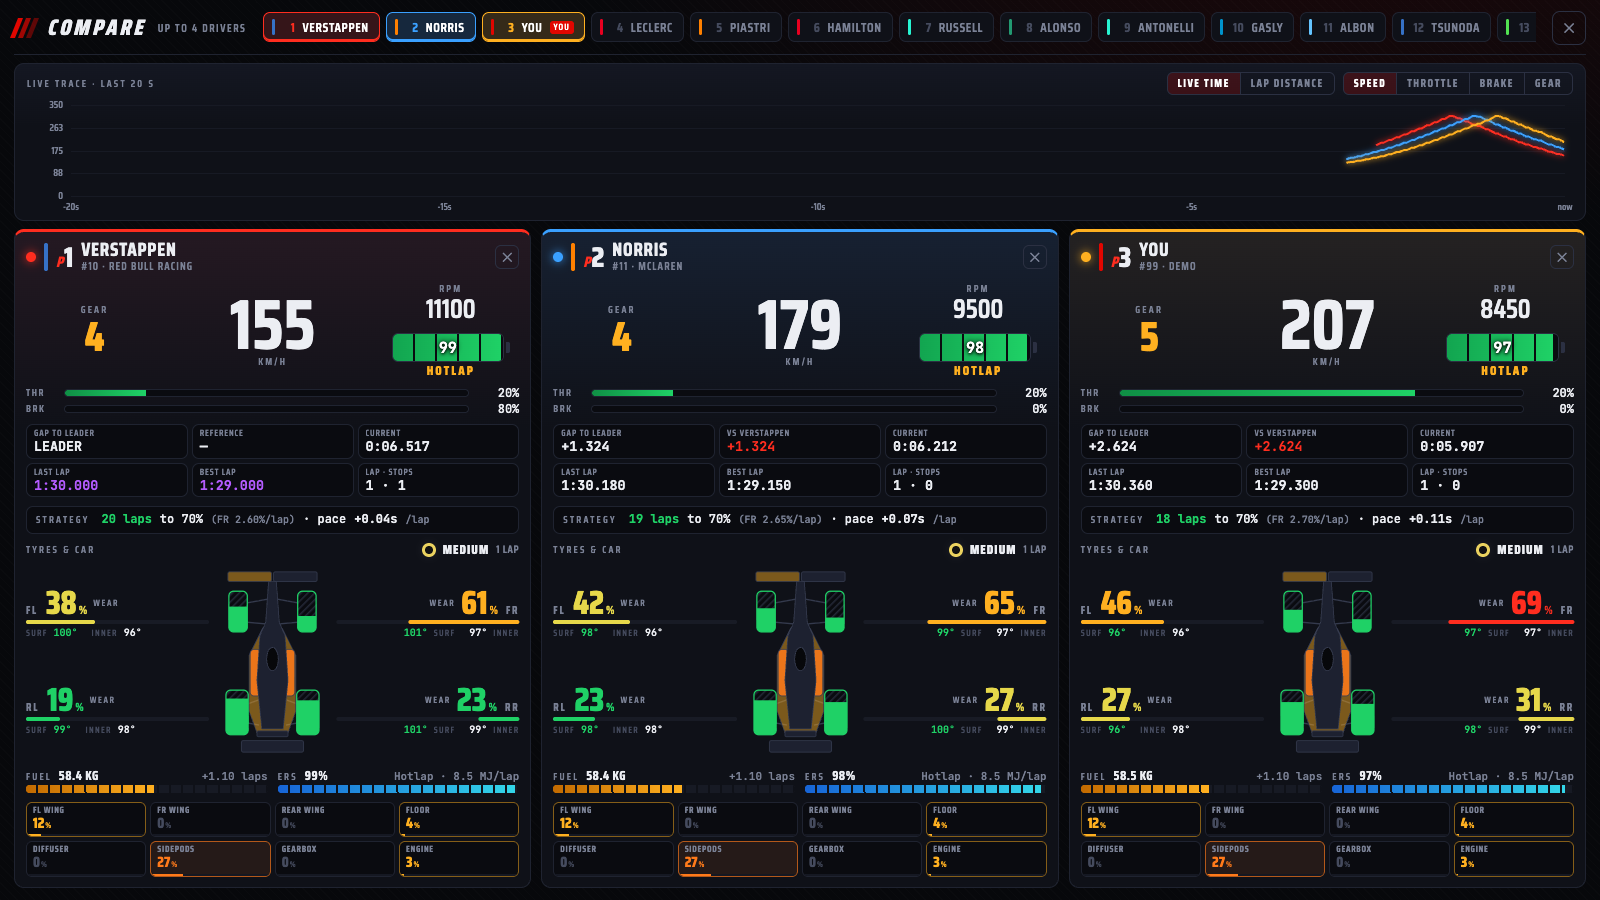
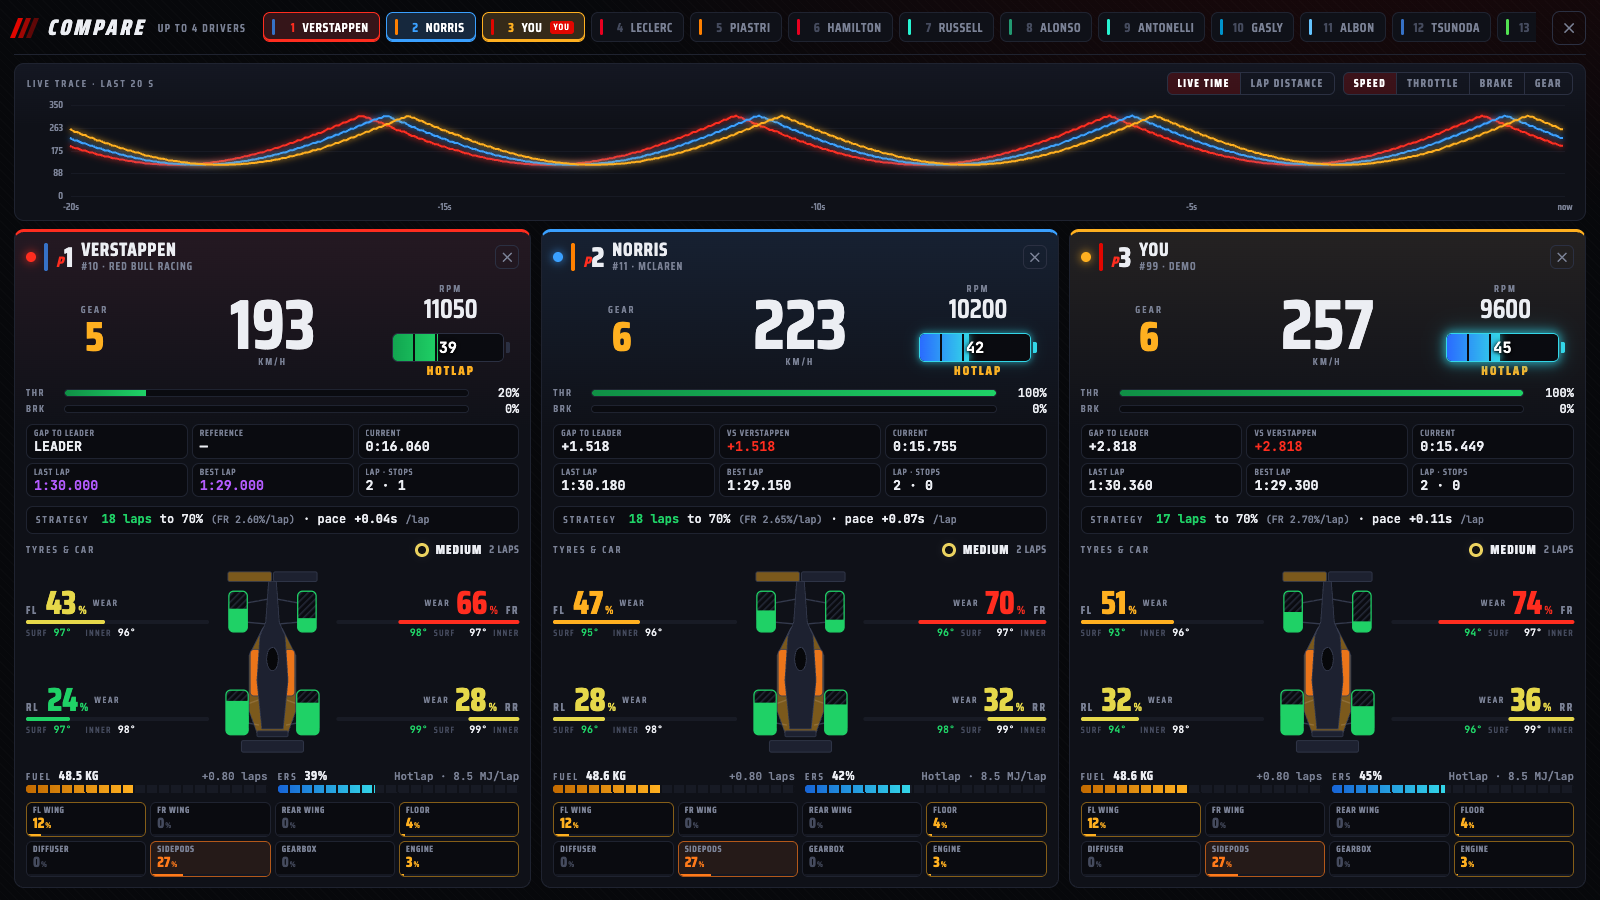
Wait for the live charts to fill before taking the screenshots
The driving and popup traces keep 10 s and the compare chart 20 s, so
the script now waits 11 s and 21 s before capturing them.

diff --git a/scripts/screenshots.js b/scripts/screenshots.js
@@ -12,6 +12,8 @@ const OUT = path.join(ROOT, 'docs');
 const FIXTURE = path.join(ROOT, 'test', 'fixtures', 'catalunya-f125.jsonl');
 const CHROME = process.env.CHROME || '/Applications/Google Chrome.app/Contents/MacOS/Google Chrome';
 const sleep = ms => new Promise(r => setTimeout(r, ms));
+// the live traces keep 10 s (driving, popup) and 20 s (compare); wait that long so the charts are full
+const TRACE_MS = 11000, COMPARE_MS = 21000;
 const quiet = {log() {}, warn() {}, error() {}};
 
 async function main() {
@@ -51,9 +53,10 @@ async function main() {
   try {
     // demo dashboard with a rival popup
     await open(demo.ports.http);
+    await sleep(TRACE_MS);
     await shot('dashboard.png');
     await js('openDriver(3)');
-    await sleep(900);
+    await sleep(TRACE_MS);
     await shot('rival-popup.png');
     await js('closeDriver()');
 
@@ -61,7 +64,7 @@ async function main() {
     await js('document.getElementById("compareBtn").click()');
     await sleep(400);
     await js('cmpSel = []; [0, 1, 2].forEach(i => toggleCompare(i))');
-    await sleep(2500);
+    await sleep(COMPARE_MS);
     await shot('compare.png');
 
     // waiting screen with the format picker
